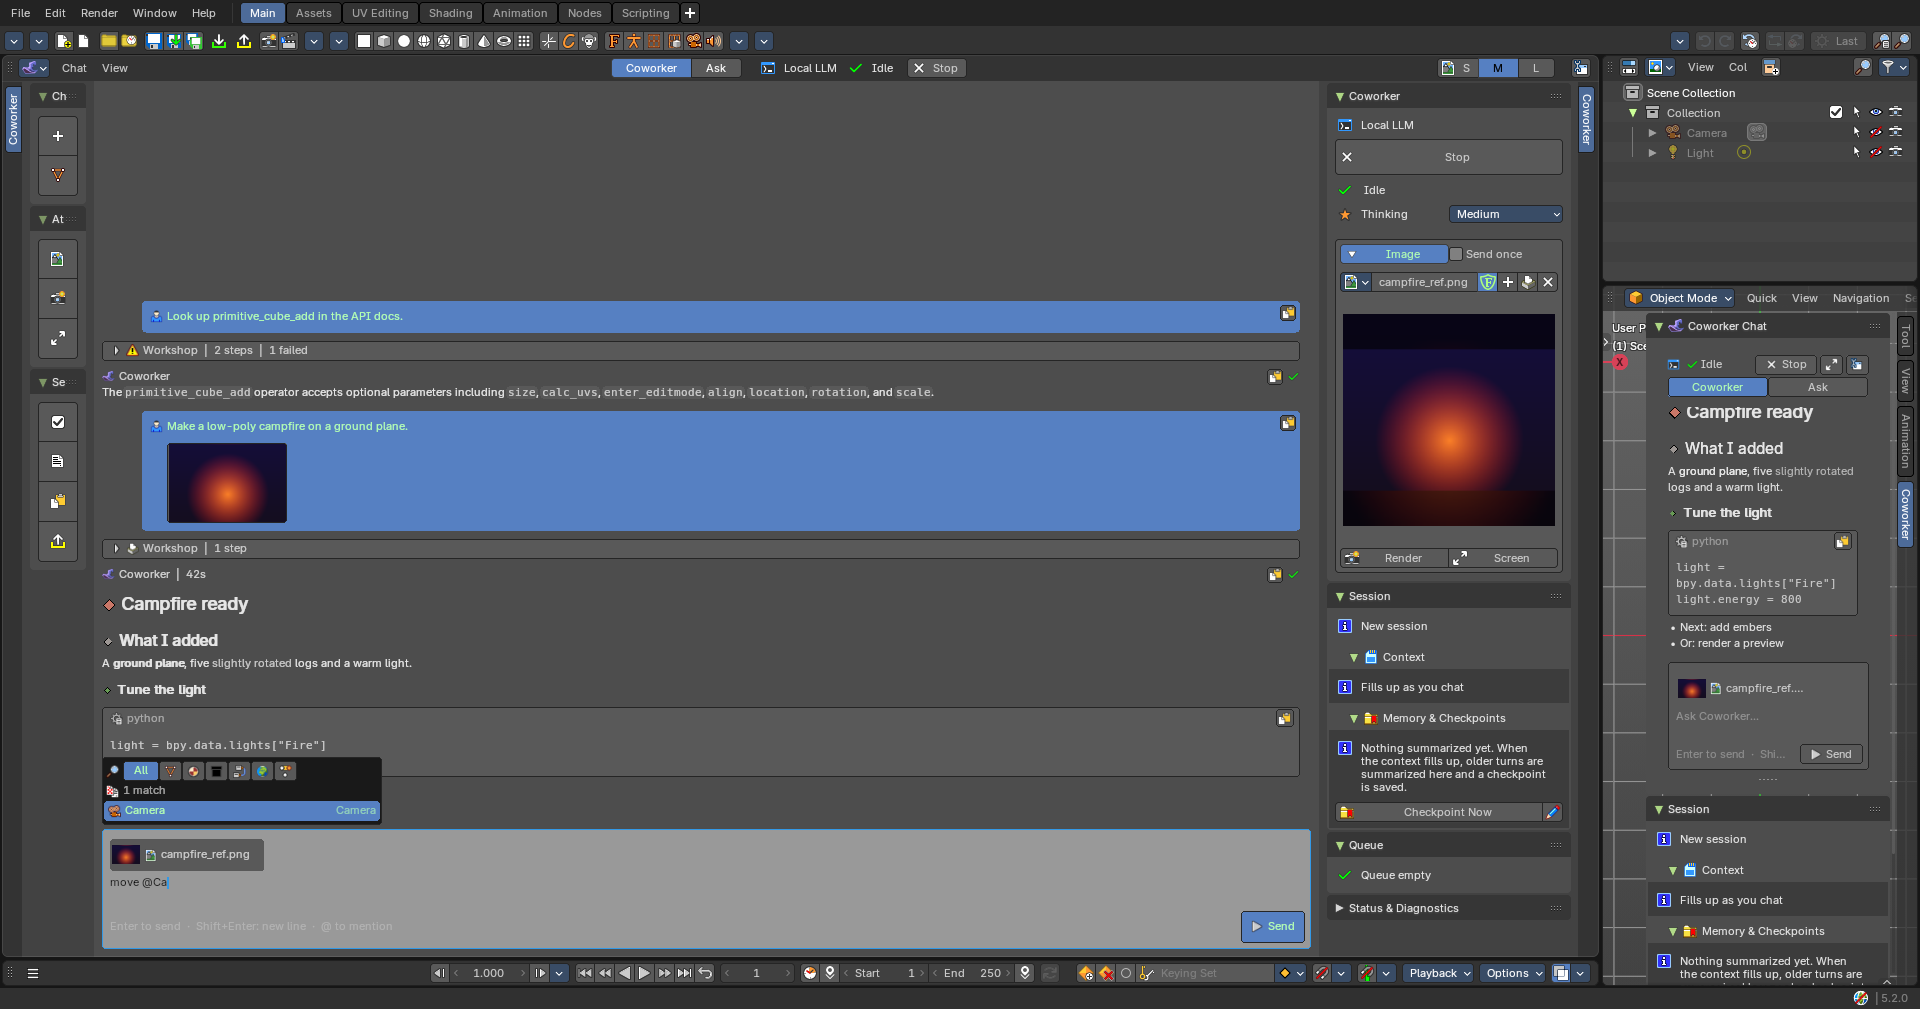
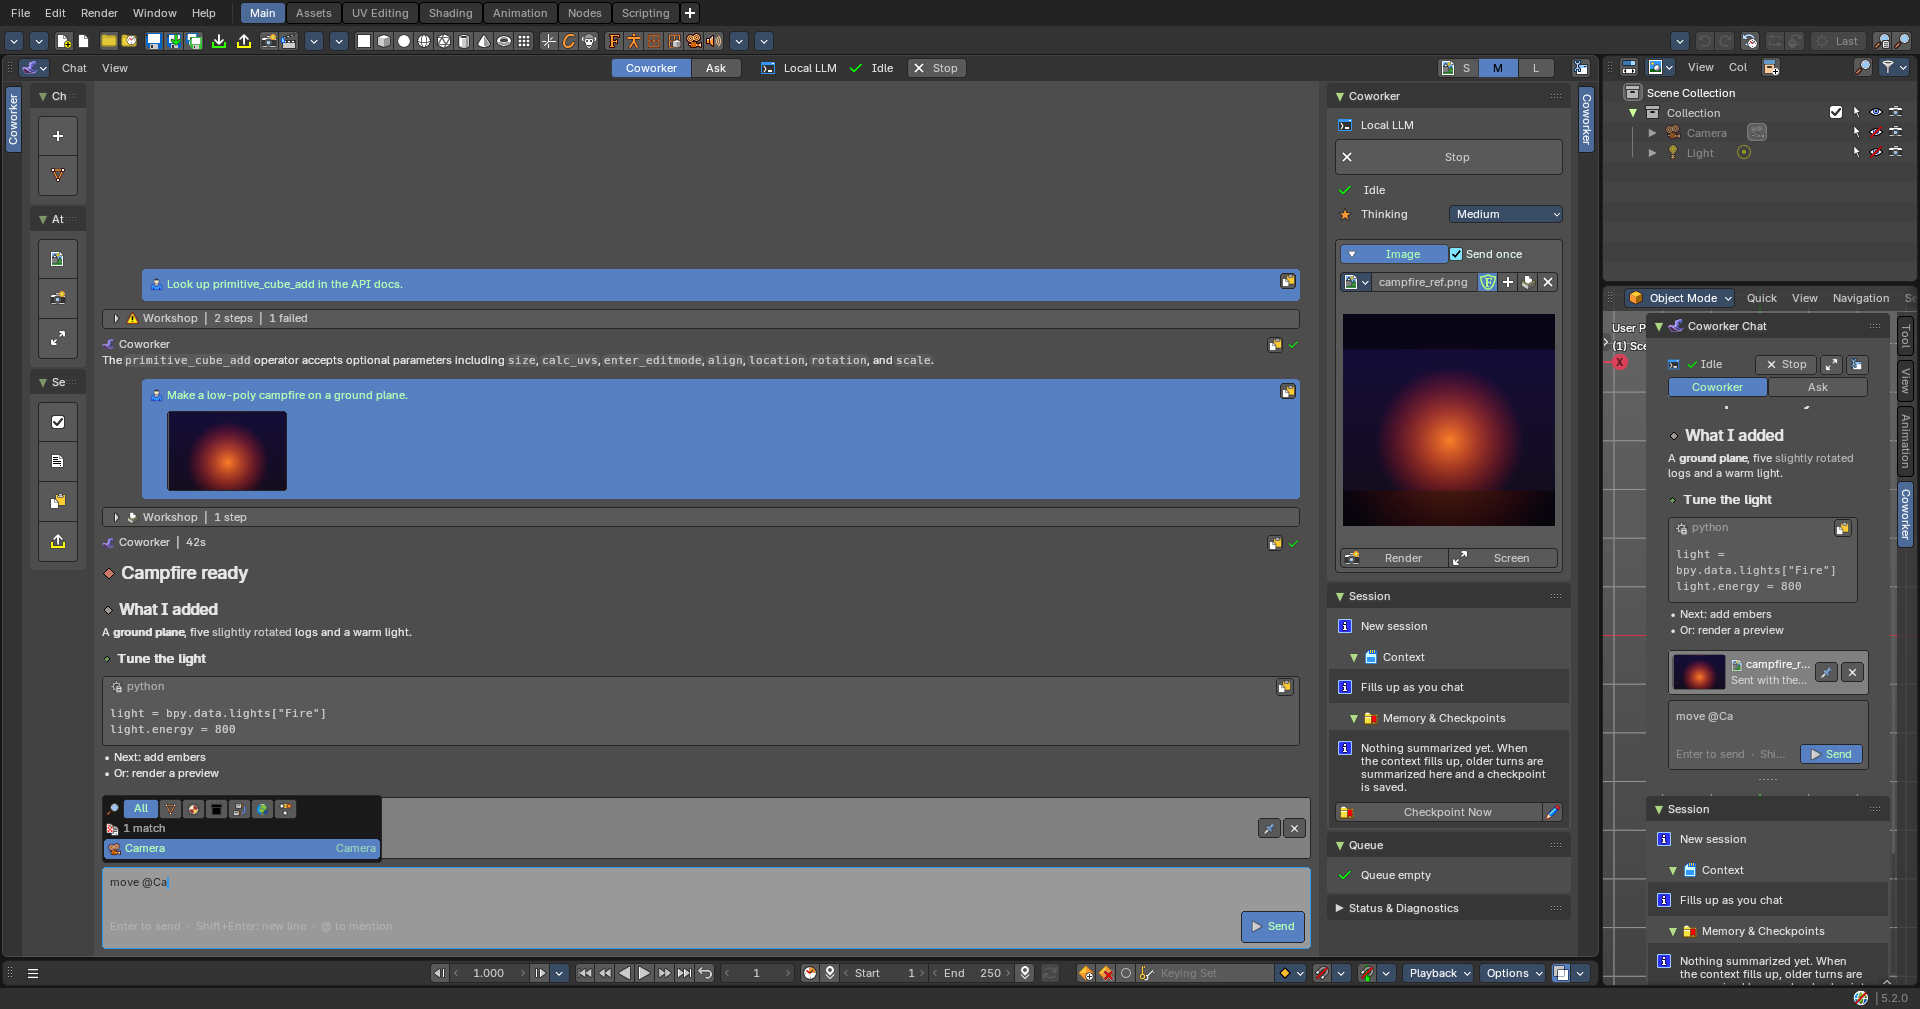
feat(#26 GPU 4+5): image tray, send-once default, drops without a menu, crisp text
- Over a Coworker chat, other image drop handlers (Image node, image
  empty, camera background) step aside, so a drop attaches straight away
  instead of asking which handler to use.  Undone on unregister.
- The waiting image moved out of the input box into a tray above it:
  thumbnail (click: Image Editor), name cut to fit, a status line, a pin
  (keep it for every message) and remove.
- Send once is the default (the pin makes it sticky); a new attachment
  replaces the old one.
- Text is drawn on whole pixels, like Blender's UI text (half-pixel
  positions blurred it and it read faded).

diff --git a/addon/bfa_coworker/ui_gpu/surface.py b/addon/bfa_coworker/ui_gpu/surface.py
@@ -91,6 +91,7 @@ class ChatSurface:
     # Called with the wanted height (pixels) while the bottom grip is dragged.
     on_resize: Any = None
     drop_hover: bool = False     # an image is being dragged over: show the drop target
+    attachment_pinned: bool = False   # the attached image stays for every message
 
     # -- mouse (region pixels) ------------------------------------------------------
     def hit(self, x: float, y: float) -> str | None:
@@ -180,6 +181,8 @@ class ChatSurface:
         box_h = self.box.height(canvas, inner.w) if show_input else 0.0
         input_rect = Rect(inner.x, inner.y, inner.w, box_h)
         chat_y = input_rect.top + pad if show_input else rect.y
+        if show_input and self.box.attachment:      # the image tray, above the input
+            chat_y = self._draw_tray(canvas, Rect(inner.x, chat_y, inner.w, 0), actions) + pad
         chat = Rect(rect.x, chat_y, rect.w, max(0.0, top_edge - chat_y - pad))
         self._chat_rect = chat
         if notice is not None:
@@ -252,6 +255,46 @@ class ChatSurface:
                     actions.append(("chat_mode", mode_id))
             bottom = mrow.y - pad * 0.5
         return bottom
+
+    def _draw_tray(self, canvas: Canvas, anchor: Rect, actions: list[tuple[str, str]]) -> float:
+        """The image waiting to be sent, in its own box above the input: a thumbnail,
+        its name, a pin (keep it for every message) and remove.  Returns its top."""
+        style = canvas.style
+        u, pad = style.unit, style.pad * 0.6
+        thumb = u * (1.8 if self.compact else 2.6)
+        tray = Rect(anchor.x, anchor.y, anchor.w, thumb + 2 * pad)
+        canvas.box(tray, colors=style.box)
+        name = self.box.attachment
+        picture = Rect(tray.x + pad, tray.y + pad, thumb * 1.5, thumb)
+        canvas.fill(picture, style.text_field.inner, style.radius(style.text_field))
+        canvas.image(picture.inset(1.0), name)
+        canvas.hit_areas.append((picture, "img:" + name))
+        if canvas.state.clicked == "img:" + name:
+            actions.append(("open_image", name))
+        bw = u * 1.15
+        remove = Rect(tray.right - pad - bw, tray.y + (tray.h - u) / 2, bw, u)
+        pin = Rect(remove.x - pad * 0.5 - bw, remove.y, bw, u)
+        if canvas.button(pin, "attach_pin", "", active=self.attachment_pinned,
+                         icon="PINNED" if self.attachment_pinned else "UNPINNED"):
+            actions.append(("attachment_pin", ""))
+        if canvas.button(remove, "attach_remove", "", icon="X"):
+            actions.append(("attachment_remove", ""))
+        side = canvas.icon_size()
+        tx = picture.right + pad
+        room = pin.x - pad - tx - side - pad * 0.5
+        label = name if canvas.measure(name, "ui", style.font_size) <= room else name
+        while label and canvas.measure(label + "\u2026", "ui", style.font_size) > room:
+            label = label[:-1]
+        if label != name:
+            label = label + "\u2026" if label else ""
+        mid = tray.y + tray.h / 2
+        canvas.icon(Rect(tx, mid + style.line_height * 0.05, side, side), "IMAGE_DATA", style.box.text)
+        canvas.label(Rect(tx + side + pad * 0.5, mid, room, style.line_height), label, style.box.text)
+        status = _fit(canvas, "Kept for every message" if self.attachment_pinned else "Sent with the next message",
+                      room + side)
+        canvas.label(Rect(tx, mid - style.line_height, room + side, style.line_height), status,
+                     _soft(style.box.text, 0.35))
+        return tray.top
 
     def _draw_drop_target(self, canvas: Canvas, rect: Rect) -> None:
         """Dragging an image file over the chat: a highlight that says what a drop does."""

diff --git a/addon/bfa_coworker/chat_editor.py b/addon/bfa_coworker/chat_editor.py
@@ -259,6 +259,7 @@ def _sync_box(surface: ChatSurface, props: Any, busy: bool, running: bool, harne
     _SYNCED[id(surface)] = box.model.text
     image = getattr(props, "chat_image", None)
     box.attachment = image.name if image is not None else ""
+    surface.attachment_pinned = not getattr(props, "chat_image_send_once", True)
     box.busy = busy
     box.placeholder = ("Ask Coworker..." if running else
                        "Start Coworker to chat (Start, above)" if not harness else "")
@@ -587,6 +588,10 @@ def _do(action: str, value: str, surface: ChatSurface | None, region: Any = None
         ops.open_coworker_editor()
     elif action == "open_image":
         _open_image(value)
+    elif action == "attachment_pin" and props is not None:
+        props.chat_image_send_once = not props.chat_image_send_once
+    elif action == "attachment_remove" and props is not None:
+        props.chat_image = None
     elif action == "chat_mode" and props is not None:
         props.chat_mode = value
     elif action == "native_edit" and surface is not None:
@@ -1067,6 +1072,7 @@ def _take_over(ours: set[str]) -> None:
             original(self, context)
 
     header.draw = draw
+    _quiet_other_drop_handlers()
     panels = _node_panels(ours)
     without = []
     for cls in panels:
@@ -1095,7 +1101,48 @@ def _take_over(ours: set[str]) -> None:
             print("[Coworker] editor: could not re-register {:s}: {:s}".format(cls.__name__, str(ex)))
 
 
+def _over_chat(context: Any) -> bool:
+    """A file drag is over a Coworker chat (the editor, or the sidebar chat tab)."""
+    try:
+        if _is_coworker(context):
+            return True
+        from . import ui_chat
+        return _compact_enabled(context) and ui_chat._is_coworker_panel_region(context)
+    except (AttributeError, ReferenceError):
+        return False
+
+
+_WRAPPED_DROPS: list[tuple[type, Any]] = []
+
+
+def _drop_outside_chat(fn: Any) -> Any:
+    # A closure: Blender calls poll_drop(cls, context) and dislikes extra default args.
+    def poll_drop(cls, context):
+        if _over_chat(context):
+            return False
+        return fn(cls, context)
+    return poll_drop
+
+
+def _quiet_other_drop_handlers() -> None:
+    """Over the chat only "attach" makes sense: other file handlers (the node
+    editor's Image node, the viewport's image empty / camera background) say
+    no there, so the drop attaches without a "which one?" menu."""
+    for cls in _all_subclasses(bpy.types.FileHandler):
+        if cls.__name__ == "BFACW_FH_chat_drop" or not getattr(cls, "is_registered", False):
+            continue
+        old = cls.__dict__.get("poll_drop")
+        if old is None:
+            continue
+
+        _WRAPPED_DROPS.append((cls, old))
+        cls.poll_drop = classmethod(_drop_outside_chat(old.__func__))
+
+
 def _give_back() -> None:
+    for cls, old in _WRAPPED_DROPS:
+        cls.poll_drop = old
+    _WRAPPED_DROPS.clear()
     if "header" in _ORIGINAL:
         bpy.types.NODE_HT_header.draw = _ORIGINAL.pop("header")
     for cls, old in _WRAPPED_POLLS:

diff --git a/addon/bfa_coworker/ui_gpu/input_box.py b/addon/bfa_coworker/ui_gpu/input_box.py
@@ -399,9 +399,8 @@ class InputBox:
         """Height the box needs at *width*: text lines (2 to 6), then the button row."""
         style = canvas.style
         visible = max(_MIN_VISIBLE_LINES, min(len(self._lines(canvas, width)), _MAX_VISIBLE_LINES))
-        chip = style.unit * 1.9 if self.attachment else 0.0
         margin, _gap, button_h = self._button_metrics(canvas)
-        return style.pad + chip + visible * style.line_height + style.pad * 0.5 + button_h + margin
+        return style.pad + visible * style.line_height + style.pad * 0.5 + button_h + margin
 
     # -- buttons -----------------------------------------------------------------------
     def _button_metrics(self, canvas: Canvas) -> tuple[float, float, float]:
@@ -493,20 +492,6 @@ class InputBox:
         if hint:
             canvas.label(Rect(box.x + pad, box.y + margin, right - box.x - pad, button_h), hint, hint_color)
         top = box.top - pad
-        if self.attachment:
-            # The image waiting to be sent: a small thumbnail and its name (cut to fit).
-            thumb = u * 1.6
-            side = canvas.icon_size()
-            name_room = min(box.w * 0.7, u * 14) - thumb - side - pad * 1.6
-            name = self._fit(canvas, self.attachment, name_room)
-            chip_w = thumb + side + pad * 1.6 + canvas.measure(name, "ui", style.font_size) + pad
-            chip = Rect(box.x + pad, top - thumb - u * 0.1, chip_w, thumb)
-            canvas.box(chip, colors=style.button, outline=False)
-            canvas.image(Rect(chip.x + 2, chip.y + 2, thumb - 4, thumb - 4), self.attachment)
-            canvas.icon(Rect(chip.x + thumb + pad * 0.4, chip.y + (thumb - side) / 2, side, side),
-                        "IMAGE_DATA", style.button.text)
-            canvas.label(Rect(chip.x + thumb + side + pad * 0.8, chip.y, chip.w, thumb), name, style.button.text)
-            top -= u * 1.9
         text_color = style.text_field.text_sel if self.focused else style.text_field.text
         lines = self._lines(canvas, rect.w)
         text_area = Rect(box.x + pad * 0.25, box.y + margin + button_h, box.w - pad * 0.5,

diff --git a/tests/test_gpu_surface.py b/tests/test_gpu_surface.py
@@ -222,13 +222,19 @@ class TestPolish(unittest.TestCase):
         self.assertTrue(box.handle_key(ib.Key("Q", unicode="@", ctrl=True, alt=True)))   # ...or Ctrl+Alt elsewhere
         self.assertEqual(box.model.text, "@@")
 
-    def test_long_attachment_names_are_cut(self):
-        box = ib.InputBox(focused=True, attachment="a_really_long_image_name_" * 6 + ".png")
-        canvas = lay.Canvas(st.Style(), lay.fixed_measure(0.55))
-        box.draw(canvas, lay.Rect(0, 0, 300, 300))
-        names = [c.text for c in canvas.commands if c.kind == "text" and "really" in c.text]
-        self.assertTrue(names and names[0].endswith("\u2026"))
-        self.assertLess(canvas.measure(names[0], "ui", 11), 300)
+    def test_attachment_tray_above_the_input(self):
+        surface = sf.ChatSurface()
+        surface.box.attachment = "a_really_long_image_name_" * 6 + ".png"
+        canvas, _ = _draw(surface)
+        names = [c for c in canvas.commands if c.kind == "text" and "really" in c.text]
+        self.assertTrue(names and names[0].text.endswith("…"))          # cut to fit
+        self.assertGreater(names[0].rect.y, surface.box.rect.top)            # above the input box
+        self.assertIn(surface.box.attachment, [c.text for c in canvas.commands if c.kind == "image"])
+        self.assertEqual(_click(surface, "attach_pin"), [("attachment_pin", "")])
+        self.assertEqual(_click(surface, "attach_remove"), [("attachment_remove", "")])
+        surface.attachment_pinned = True
+        canvas, _ = _draw(surface)
+        self.assertIn("Kept for every message", [c.text for c in canvas.commands if c.kind == "text"])
 
     def test_box_starts_multi_line_with_buttons_below(self):
         box = ib.InputBox(focused=True)

diff --git a/_misc/spikes/coworker_editor_demo.py b/_misc/spikes/coworker_editor_demo.py
@@ -181,6 +181,12 @@ def _tick():
             return 1.0
         if step == 2:
             _shoot("1_editor_and_compact_sidebar")
+            # Over the chat only Coworker's drop handler accepts an image: no "which one?" menu.
+            area = _editor_area()
+            with bpy.context.temp_override(area=area, region=_region(area, "WINDOW")):
+                RESULT["drop_over_editor"] = {
+                    "coworker": bool(bpy.types.BFACW_FH_chat_drop.poll_drop(bpy.context)),
+                    "node_image": bool(bpy.types.NODE_FH_image_node.poll_drop(bpy.context))}
             ce = CTX["ce"]
             RESULT["surfaces"] = sorted(s.compact for s, _r in ce._SURFACES.values())
             area = _editor_area()

diff --git a/tests/test_gpu_input_box.py b/tests/test_gpu_input_box.py
@@ -202,8 +202,8 @@ class TestDrawing(unittest.TestCase):
         box.busy, box.attachment = True, "shot.png"
         c = self.canvas(clicked="stop")
         self.assertEqual(box.draw(c, lay.Rect(0, 0, 400, 200)), [("stop", "")])
-        self.assertIn("shot.png", self.texts(c))
-        self.assertIn("shot.png", [cmd.text for cmd in c.commands if cmd.kind == "image"])   # thumbnail
+        # The attached image is drawn by the surface's tray now (test_gpu_surface).
+        self.assertNotIn("shot.png", self.texts(c))
 
     def test_send_button_and_click_to_place_cursor(self):
         box = ib.InputBox(focused=True)

diff --git a/addon/bfa_coworker/ui_gpu/render.py b/addon/bfa_coworker/ui_gpu/render.py
@@ -235,10 +235,12 @@ def _text(cmd: DrawCmd) -> None:
     blf.size(fid, cmd.size)
     blf.color(fid, *cmd.color)
     assert cmd.rect is not None
-    blf.position(fid, cmd.rect.x, cmd.rect.y, 0)
+    # Whole pixels: text on a half pixel is blurred into two, which reads faded.
+    x, y = round(cmd.rect.x), round(cmd.rect.y)
+    blf.position(fid, x, y, 0)
     blf.draw(fid, cmd.text)
     if cmd.bold:
-        blf.position(fid, cmd.rect.x + max(0.6, cmd.size / 18.0), cmd.rect.y, 0)
+        blf.position(fid, x + max(1, round(cmd.size / 16.0)), y, 0)
         blf.draw(fid, cmd.text)
 
 

diff --git a/addon/bfa_coworker/ui_chat.py b/addon/bfa_coworker/ui_chat.py
@@ -1121,9 +1121,10 @@ class ChatHistoryProperties(PropertyGroup):  # type: ignore[misc]
         name="Send Once",
         description=(
             "Send the attached image with the next message only, then "
-            "detach it (off = sticky: re-sent every turn until cleared)"
+            "detach it (off = sticky: re-sent every turn until cleared; the "
+            "chat's pin button toggles this)"
         ),
-        default=False,
+        default=True,
     )
 
     # The compact chat panel's height (Tier 4, GPU 5; see chat_editor._find_chat_rect).

diff --git a/addon/bfa_coworker/ui_gpu/icons.py b/addon/bfa_coworker/ui_gpu/icons.py
@@ -51,7 +51,7 @@ IMAGE_ICONS = (
     "OUTLINER_OB_ARMATURE", "OUTLINER_OB_FONT", "OUTLINER_OB_GREASEPENCIL", "OUTLINER_OB_LATTICE",
     "OUTLINER_OB_META", "OUTLINER_OB_SPEAKER", "OUTLINER_OB_SURFACE", "OUTLINER_OB_VOLUME",
     "OUTLINER_OB_POINTCLOUD", "OUTLINER_OB_CURVES", "OUTLINER_OB_LIGHTPROBE", "OUTLINER_OB_IMAGE",
-    "OUTLINER_OB_FORCE_FIELD",
+    "OUTLINER_OB_FORCE_FIELD", "PINNED", "UNPINNED",
 )
 _IMAGE_DIR = os.path.join(os.path.dirname(os.path.abspath(__file__)), "icons")
 _IMAGE_SIZES = (16, 24, 32, 48, 64)

diff --git a/CHANGELOG.md b/CHANGELOG.md
@@ -35,7 +35,7 @@ a compact sidebar chat) plus groundwork for the External Agent mode.
   - **Toolshelf:** new thread, @ mention, attach a render or the screen, thumbnail size, plan, rules, session log.
   - **Sidebar:** the same panels as the 3D View's Coworker tab -- controls and image socket, Session (Context, Memory & Checkpoints), Queue, Status & Diagnostics.
   - Replies render markdown (headings, lists, tables, code with **Copy**); the Workshop folds the tool steps away; replies have a Copy button.
-  - **Attached images show as thumbnails** in your message (click one to open it in an Image Editor); the image waiting to be sent shows in the input box. View > Thumbnails sets the size (Small / Medium / Large).
+  - **Attached images show as thumbnails** in your message (click one to open it in an Image Editor). The image waiting to be sent sits in a tray above the input with a pin (keep it for every message) and remove; by default it goes with the next message only. **Drag an image file onto the chat** to attach it -- no "which handler?" menu over the chat. The header's S / M / L buttons set the thumbnail size.
   - Type in another script with **Edit** (a native text field, for Chinese, Japanese or Korean input).
 - **Compact sidebar chat.** The 3D View's Coworker tab shows the same chat in a small form, with a top bar for status, Start / Stop, chat mode, settings and the editor. *Preferences > Coworker > Chat Display > Sidebar Chat* switches back to the **Classic Panels**.
 - In **External Harness** mode both show a card (the chat runs in your MCP client) with Start / Stop Bridge, Copy Config and Configure.
